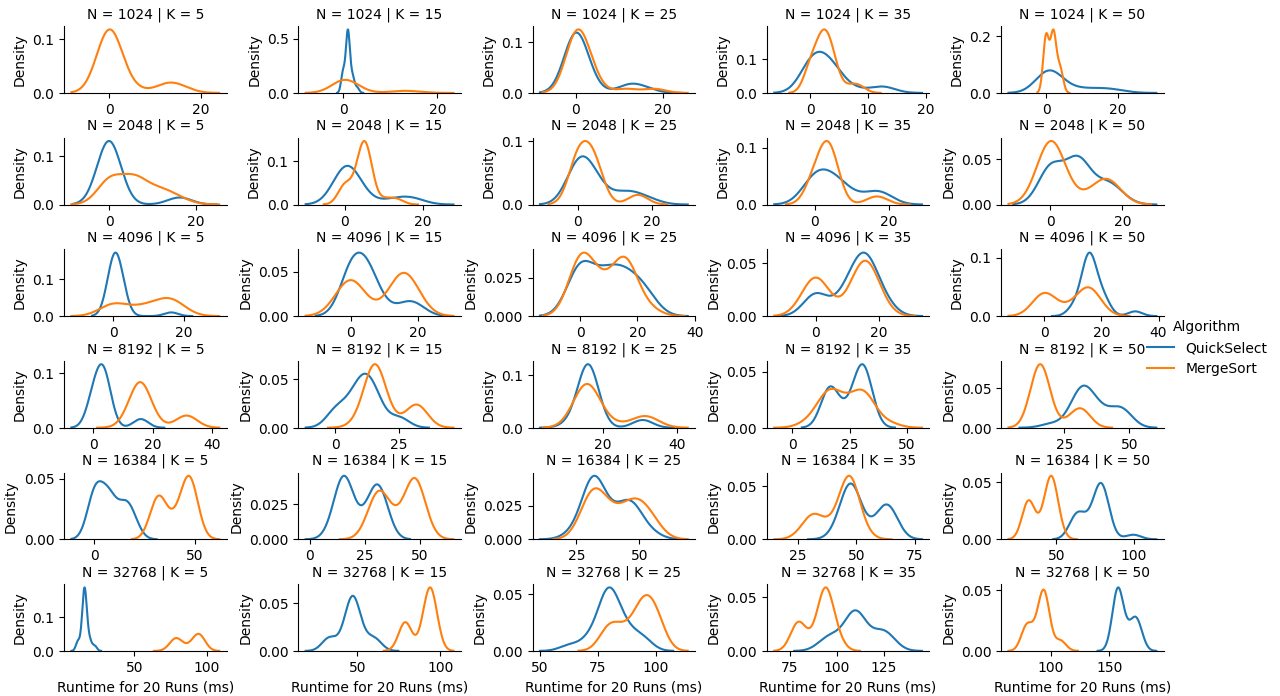
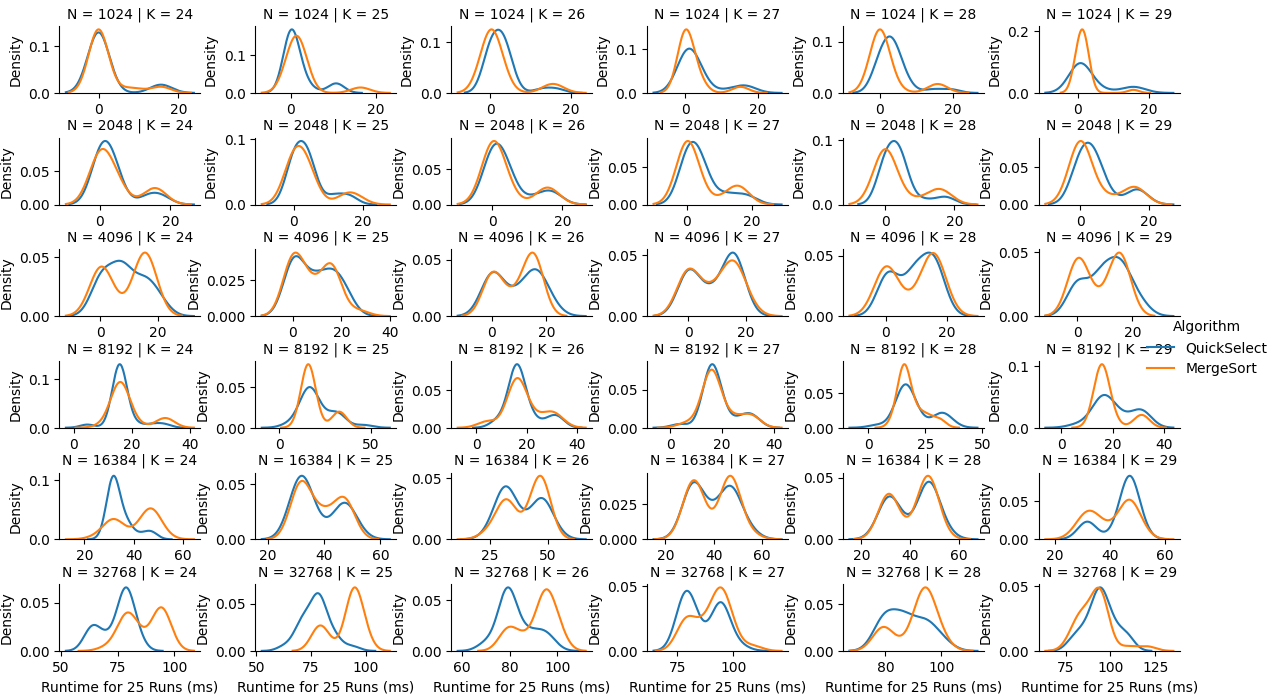
ps4

Changed region(s): [[0.0, 0.0, 0.9375, 0.9957], [0.0, 0.0, 0.1562, 0.1509]]

diff --git a/fall2024/psets/ps4/ps4.py b/fall2024/psets/ps4/ps4.py
@@ -96,11 +96,11 @@ def MergeSortSelect(arr, query_list):
 
 def experiments():
     # Edit this parameter
-    k = [5, 15, 25, 35, 50]
+    k = [24, 25, 26, 27, 28, 29]
 
     # Feel free to edit these initial parameters
 
-    RUNS = 20  # Number of runs for each trial; more runs means better distributions approximation but longer experiment
+    RUNS = 25  # Number of runs for each trial; more runs means better distributions approximation but longer experiment
     HEIGHT = 1.5  # Height of a chart
     WIDTH = 3   # Width of a chart
     # Determines if subcharts share the same axis scale/limits
